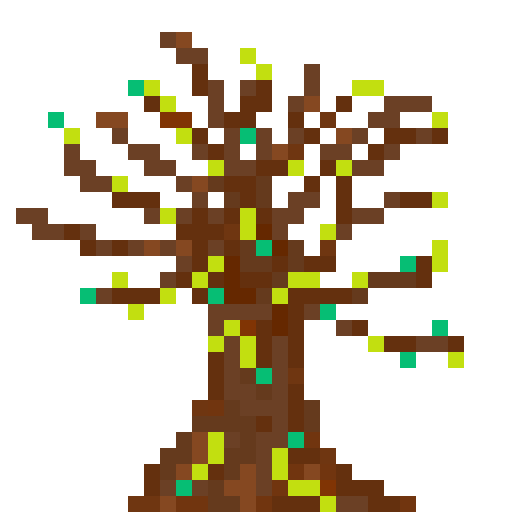
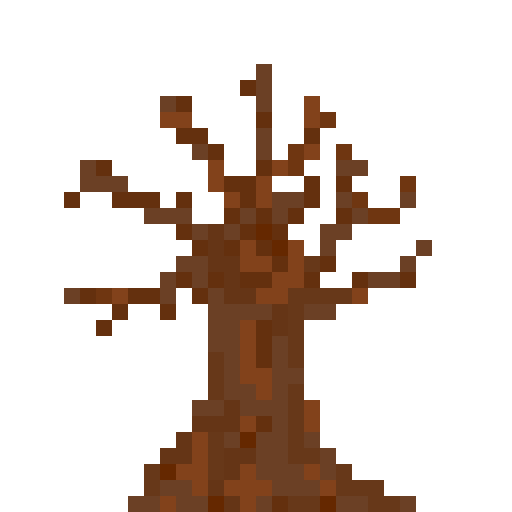
Добавлены мёртвые деревья, логика спавна новых здоровых деревьев, исправлены баги

diff --git a/src/main/java/gameLogic/infection/InfectionHandler.java b/src/main/java/gameLogic/infection/InfectionHandler.java
@@ -1,0 +1,67 @@
+package gameLogic.infection;
+
+import gameLogic.area.InfectionArea;
+import map.Cell;
+import map.GameMap;
+import utils.Point;
+import utils.RandomInt;
+import worldObjects.destructibleObjects.DeadTree;
+import worldObjects.destructibleObjects.InfectedTree;
+import worldObjects.destructibleObjects.LiveTree;
+
+public class InfectionHandler {
+    private final GameMap gameMap;
+
+    public InfectionHandler(GameMap map) {
+        this.gameMap = map;
+    }
+
+    public void infect() {
+        for (var cell : gameMap.getMap().values()) {
+            var cellPoint = new Point(cell.getX() / Cell.cellSize, cell.getY() / Cell.cellSize);
+            for (var worldObj : cell.getObjectsInCell()) {
+                // Заражается случайное здоровое дерево
+                if (worldObj instanceof LiveTree) {
+                    if (RandomInt.getValue(470, 0) == 2) {
+                        System.out.println("СЛУЧАЙНОЕ ДЕРЕВО ЗАРАЗИЛОСЬ НА " + cellPoint.x + " " + cellPoint.y);
+                        cell.removeObjectFromCell(worldObj);
+                        cell.addObjectInCell(new InfectedTree(cellPoint));
+                    }
+                    continue;
+                }
+                // Взаимодействуем только с заражёнными деревьями
+                if (!(worldObj instanceof InfectedTree))
+                    continue;
+                var infectionArea = new InfectionArea(cellPoint);
+                // Умирает заражённое дерево, не имеющее здоровых соседей
+                var isHermit = true;
+                for (var infectPoint : infectionArea.getActiveCords()) {
+                    var maybeCell = gameMap.getMap().get(infectPoint);
+                    for (var ob : maybeCell.getObjectsInCell()) {
+                        if (!(ob instanceof LiveTree))
+                            continue;
+                        isHermit = false;
+                    }
+                }
+                if (isHermit) {
+                    // System.out.println("СДОХ ОДИНОЧКА на " + cellPoint.x + " " + cellPoint.y);
+                    cell.removeObjectFromCell(worldObj);
+                    cell.addObjectInCell(new DeadTree(cellPoint));
+                    continue;
+                }
+                // Пытаемся заразить рандомную клетку из соседей cell
+                var targetPoint = infectionArea.getActiveCords().get(
+                        RandomInt.getValue(infectionArea.getActiveCords().size() - 1, 0));
+                var targetCell = gameMap.getMap().get(targetPoint);
+                for (var worldObj1 : targetCell.getObjectsInCell()) {
+                    if (worldObj1 instanceof LiveTree) {
+                        System.out.println("ЗАРАЖЕНИЕ по " + targetPoint.x + " " + targetPoint.y);
+                        targetCell.removeObjectFromCell(worldObj1);
+                        targetCell.addObjectInCell(new InfectedTree(targetPoint));
+                    }
+                }
+            }
+        }
+    }
+}
+

diff --git a/src/main/java/gameLogic/growing/TreesGrowHandler.java b/src/main/java/gameLogic/growing/TreesGrowHandler.java
@@ -1,0 +1,34 @@
+package gameLogic.growing;
+
+import creatures.persons.player.IPlayer;
+import map.Cell;
+import map.GameMap;
+import utils.Point;
+import utils.RandomInt;
+import worldObjects.Solid;
+import worldObjects.destructibleObjects.LiveTree;
+
+public class TreesGrowHandler {
+    private GameMap gameMap;
+
+    public TreesGrowHandler(GameMap map) {
+        this.gameMap = map;
+    }
+
+    public void grow() {
+        main:
+        for (var cell : gameMap.getMap().values()) {
+            var cellPoint = new Point(cell.getX() / Cell.cellSize, cell.getY() / Cell.cellSize);
+            for (var ob : cell.getObjectsInCell()) {
+                if (ob instanceof Solid || ob instanceof IPlayer)
+                    continue main;
+            }
+
+            if (RandomInt.getValue(200, 0) == 1) {
+                System.out.println("ЗАСПАВНИЛОСЬ ДЕРЕВО " + cellPoint.x + " " + cellPoint.y);
+                cell.addObjectInCell(new LiveTree(cellPoint));
+            }
+        }
+    }
+}
+

diff --git a/src/main/java/gameLogic/growing/TreesGrowTimer.java b/src/main/java/gameLogic/growing/TreesGrowTimer.java
@@ -1,4 +1,4 @@
-package gameLogic.infection;
+package gameLogic.growing;
 
 import config.GameConfig;
 import map.GameMap;
@@ -6,17 +6,17 @@ import map.GameMap;
 import java.util.Timer;
 import java.util.TimerTask;
 
-public class InfectionTimer {
+public class TreesGrowTimer {
     public static void start(GameMap gameMap) {
         TimerTask repeatedTask = new TimerTask() {
             public void run() {
-                new InfectionHandler(gameMap).infect();
+                new TreesGrowHandler(gameMap).grow();
             }
         };
-        Timer timer = new Timer("InfectionTimer");
+        Timer timer = new Timer("TreesGrowTimer");
 
-        long delay = 1000L * GameConfig.getInfectionPeriod();
-        long period = 1000L * GameConfig.getInfectionPeriod();
+        long delay = 1000L * GameConfig.getGrowPeriod();
+        long period = 1000L * GameConfig.getGrowPeriod();
         timer.scheduleAtFixedRate(repeatedTask, delay, period);
     }
 }

diff --git a/src/main/java/worldObjects/destructibleObjects/DeadTree.java b/src/main/java/worldObjects/destructibleObjects/DeadTree.java
@@ -8,14 +8,14 @@ import worldObjects.Solid;
 
 import java.awt.image.BufferedImage;
 
-public class InfectedTree extends DestructibleObject implements Solid {
+public class DeadTree extends DestructibleObject implements Solid {
 
-    public InfectedTree(int x, int y) {
+    public DeadTree(int x, int y) {
         this(new Point(x, y));
     }
 
-    public InfectedTree(Point point) {
-        super(point, RandomInt.getValue(6, 4), TreeSprites.INFECTED, Resources.Wood, RandomInt.getValue(23, 7), 15);
+    public DeadTree(Point point) {
+        super(point, RandomInt.getValue(4, 2), TreeSprites.DEAD, Resources.Wood, RandomInt.getValue(23, 7), 5);
     }
 
     @Override

diff --git a/src/main/java/gameLogic/area/Area.java b/src/main/java/gameLogic/area/Area.java
@@ -55,8 +55,8 @@ public abstract class Area {
         for (var i = visibleBounds[0].x; i < visibleBounds[1].x; i++)
             for (var j = visibleBounds[0].y; j < visibleBounds[1].y; j++) {
                 if (i < 0 || j < 0
-                        || i > GameConfig.getMapWidth() / Cell.cellSize
-                        || j > GameConfig.getMapHeight() / Cell.cellSize)
+                        || i >= GameConfig.getMapWidth() / Cell.cellSize
+                        || j >= GameConfig.getMapHeight() / Cell.cellSize)
                     continue;
                 arr.add(new Point(i, j));
             }

diff --git a/src/main/java/graphics/sprites/TreeSprites.java b/src/main/java/graphics/sprites/TreeSprites.java
@@ -6,5 +6,6 @@ public class TreeSprites extends SpriteLoader{
     public static BufferedImage DAY = loadSprite("src\\main\\images\\tree\\MTREE.png");
     public static BufferedImage NIGHT = loadSprite("src\\main\\images\\tree\\MTREE.png");
 
-    public static BufferedImage INFECTED = loadSprite("src\\main\\images\\tree\\DEADTREE.png");
+    public static BufferedImage INFECTED = loadSprite("src\\main\\images\\tree\\INFECTEDTREE.png");
+    public static BufferedImage DEAD = loadSprite("src\\main\\images\\tree\\DEADTREE.png");
 }

diff --git a/src/main/java/game/Game.java b/src/main/java/game/Game.java
@@ -2,6 +2,7 @@ package game;
 
 import config.GameConfig;
 import creatures.persons.player.Player;
+import gameLogic.growing.TreesGrowTimer;
 import gameLogic.infection.InfectionTimer;
 import map.Cell;
 import map.GameMap;
@@ -26,5 +27,6 @@ public class Game {
                 GameConfig.getMapWidth() / 2 / Cell.cellSize);
         gameMap.getMap().get(player.getPoint()).addObjectInCell(player);
         InfectionTimer.start(gameMap);
+        TreesGrowTimer.start(gameMap);
     }
 }

diff --git a/src/main/java/config/GameConfig.java b/src/main/java/config/GameConfig.java
@@ -22,4 +22,15 @@ public class GameConfig {
 
     private static final int mapWidth = 4500;
     private static final int mapHeight = 4500;
+
+    public static int getGrowPeriod() {
+        return growPeriod;
+    }
+
+    public static int getInfectionPeriod() {
+        return infectionPeriod;
+    }
+
+    private static final int growPeriod = 60;
+    private static final int infectionPeriod = 13;
 }

diff --git a/src/main/java/worldObjects/destructibleObjects/LiveTree.java b/src/main/java/worldObjects/destructibleObjects/LiveTree.java
@@ -15,7 +15,7 @@ public class LiveTree extends DestructibleObject implements Solid {
     }
 
     public LiveTree(Point point) {
-        super(point, RandomInt.getValue(9, 6), TreeSprites.DAY, Resources.Wood, RandomInt.getValue(100, 50), -50);
+        super(point, RandomInt.getValue(9, 7), TreeSprites.DAY, Resources.Wood, RandomInt.getValue(100, 50), -50);
     }
 
     @Override

diff --git a/src/main/java/gameLogic/area/InfectionArea.java b/src/main/java/gameLogic/area/InfectionArea.java
@@ -8,8 +8,8 @@ import utils.Point;
 public class InfectionArea extends Area {
     private int lxOffset = -1;
     private int lyOffset = -1;
-    private int rxOffset = 1;
-    private int ryOffset = 1;
+    private int rxOffset = 2;
+    private int ryOffset = 2;
 
 
     public InfectionArea(int x, int y) {

diff --git a/README.md b/README.md
@@ -3,8 +3,8 @@
 # Геймплей:
     Игроку необходимо спасти лес от распространяющейся заразы. 
 
-    Вырубание заражённых деревьев на левую кнопку мыши приносит очки.
-    Здоровые деревью лесорубу вырубать запрещено, иначе вычтут очки из зарплаты.
+    Вырубание заражённых и погибших деревьев на левую кнопку мыши приносит очки.
+    Здоровые деревья лесорубу вырубать запрещено, иначе вычтут очки из зарплаты.
     Также в лесу можно найти камни, которые можно разрушать без последствий.
 
     Герой может строить деревянные и каменные стены на правую кнопку мыши, 
